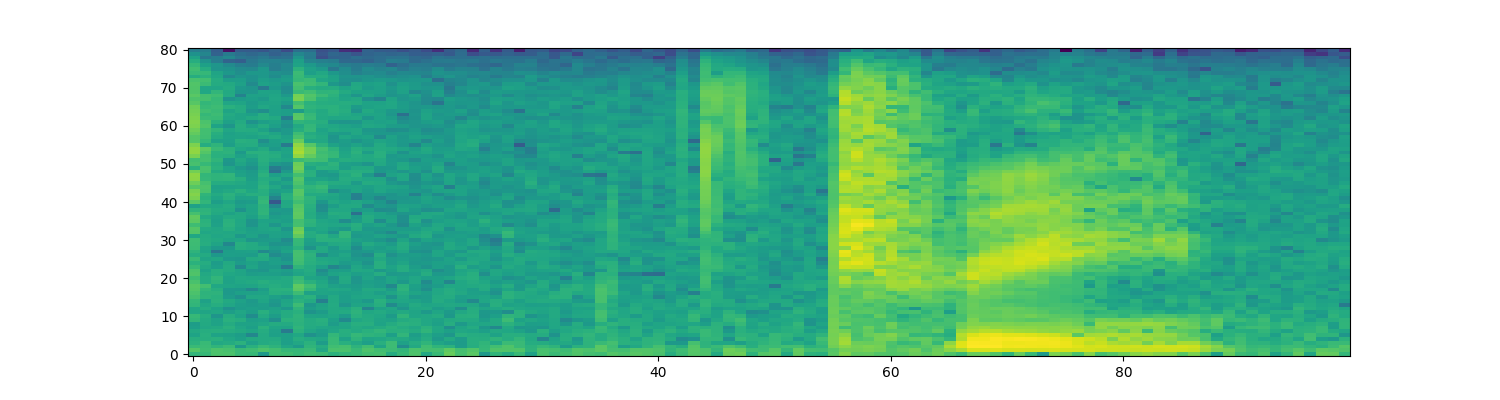
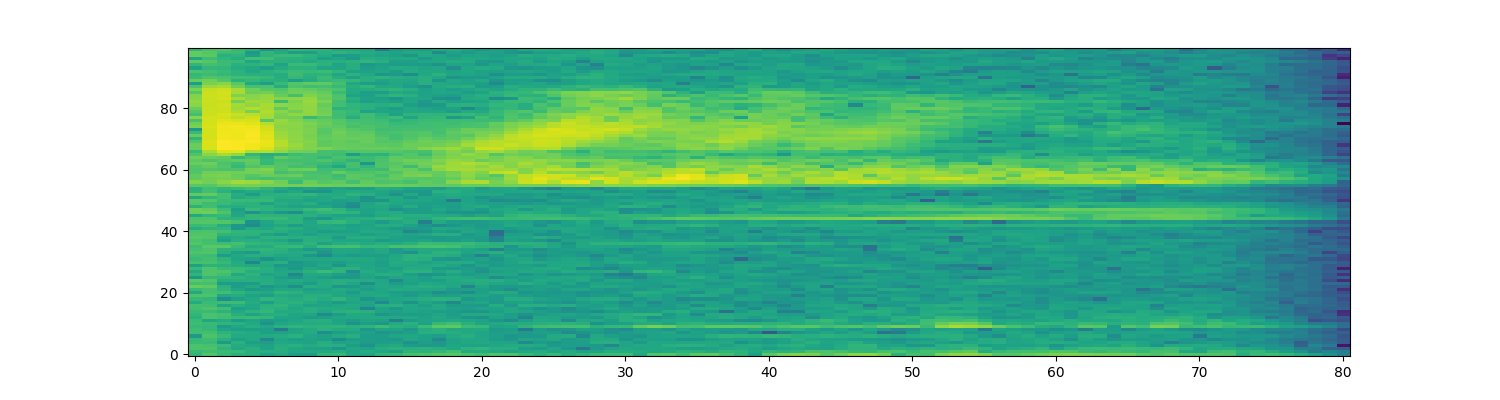
20190917

diff --git a/TensorFlow-Speech-Recognition-Challenge/main.py b/TensorFlow-Speech-Recognition-Challenge/main.py
@@ -11,6 +11,9 @@ from scipy import signal # audio processing
 from scipy.io import wavfile # reading the wavfile
 from matplotlib import pyplot as plt
 
+from keras.models import Sequential
+from keras.layers import LSTM, Dense, Dropout
+
 
 
 #PATH = '../input/train/audio/'
@@ -27,8 +30,8 @@ def load_files(path):
     print(train_labels)
     train_labels.remove('_background_noise_')
     
-    labels_to_keep = ['yes', 'no', 'up', 'down', 'left', 'right', 'on', 'off', 'stop', 'go', '_background_noise_']
-
+#    labels_to_keep = ['yes', 'no', 'up', 'down', 'left', 'right', 'on', 'off', 'stop', 'go', '_background_noise_']
+    labels_to_keep = ['zero', 'one', 'two', 'three', 'four', 'five', 'six', 'seven', 'eight', 'nine', '_background_noise_']
     train_file_labels = dict()
     for label in train_labels:
         files = os.listdir(PATH + '/' + label)
@@ -79,6 +82,7 @@ files = glob(PATH + '_bac*/*.wav')#バックグラウンドノイズを取得
 print(files)
 #
 ## silence background samples
+#バックグラウンドノイズには1秒につき16000点ある→1秒毎に取り出す→all_silに格納
 all_sil = []
 for s in files:
     sr, audio = wavfile.read(s)
@@ -93,14 +97,27 @@ for s in files:
         all_sil.append(sample_)
 #plt.plot(sample)
 #print(all_sil)
+#plt.plot(all_sil)
 #plt.savefig("foo.png")
 print(len(all_sil))
 print(all_sil[0].shape)
-sil_data =  np.zeros((392, 16000, ))
-for i,d in enumerate(all_sil):
-    sil_data[i] = d
-print(sil_data.shape)
-#
+print(np.array(all_sil).shape)
+
+
+
+#リストをnumpyとしてsil_dataに格納
+#やり方1
+#sil_data =  np.zeros((len(all_sil), 16000, ))
+#for i,d in enumerate(all_sil):
+#    sil_data[i] = d
+#やり方2
+sil_data=np.array(all_sil,dtype = 'float').reshape(len(all_sil), 16000, )
+#print(np.array(all_sil,dtype = 'float').reshape(len(all_sil), 16000, ))
+print(sil_data)
+
+
+
+
 ## Writing functions to extract the data, script from kdnuggets:
 ## www.kdnuggets.com/2016/09/urban-sound-classification-neural-networks-tensorflow.html
 def extract_feature(path):
@@ -132,12 +149,13 @@ def parse_audio_files(files, word2id, unk = False):
     return np.array(features), one_hot
 
 
-files = train.loc[train['label'] != 'unknown']['file'].values
+files = train.loc[train['label'] != 'unknown']['file'].values #filesにunknown以外格納（つまり0から9の数字）
 print(len(files))
 print(files[:10])
 #
 # playing around with the data for now
-
+#================================================================================
+#試しに3の数字でやってみる。
 #train_audio_path = '../input/train/audio/'
 train_audio_path = PATH
 filename = '/tree/24ed94ab_nohash_0.wav' # --> 'Yes'
@@ -145,33 +163,40 @@ sample_rate, audio = wavfile.read(str(train_audio_path) + filename)
 plt.figure(figsize = (15, 4))
 print(sample_rate)
 plt.plot(audio)
-plt.savefig("foo.png")
+plt.savefig("foo3.png")
 #ipd.Audio(audio, rate=sample_rate)
-
-
 # goto: https://medium.com/@ageitgey/machine-learning-is-fun-part-6-how-to-do-speech-recognition-with-deep-learning-28293c162f7a
 # We convert it into chunks of 20ms each i.e. units of 320
 audio_chunks = []
-n_chunks = int(audio.shape[0]/320)
-print(n_chunks)
+n_chunks = int(audio.shape[0]/320)#320でひとかたまり(16000/320=50)
+print(n_chunks)#50
 for i in range(n_chunks):
     chunk = audio[i*320: (i+1)*320]
     audio_chunks.append(chunk)
-audio_chunk = np.array(audio_chunks)
+audio_chunk = np.array(audio_chunks).reshape(-1,320)
+print(audio_chunk.shape)
+print(audio_chunk)
+#================================================================================
+
 
 # we now convert it to spertogram
+#http://aidiary.hatenablog.com/entry/20120211/1328964624
 # goto: https://www.kaggle.com/davids1992/data-visualization-and-investigation
 def log_specgram(audio, sample_rate, window_size=10,
                  step_size=10, eps=1e-10):
     nperseg = int(round(window_size * sample_rate / 1e3))
     noverlap = int(round(step_size * sample_rate / 1e3))
-    _, _, spec = signal.spectrogram(audio,
+    a, b, spec = signal.spectrogram(audio,
                                     fs=sample_rate,
                                     window='hann',
                                     nperseg=nperseg,
                                     noverlap=noverlap,
                                     detrend=False)
-    return np.log(spec.T.astype(np.float32) + eps)
+    #spectrogramの返り値は(時間,分解次元)
+#    print(a)
+#    print(b)
+#(batch_size, timesteps, input_dim)
+    return np.log(spec.astype(np.float32) + eps)
 
 
 spectrogram = log_specgram(audio, sample_rate, 10, 0)
@@ -206,6 +231,7 @@ for i in range(len(files)):
 #    path = '../input/train/audio/' + str(folders[i]) + '/' + str(files[i])
     path =  str(files[i])
     paths.append(path)
+
 def audio_to_data(path):
     # we take a single path and convert it into data
     sample_rate, audio = wavfile.read(path)
@@ -213,11 +239,11 @@ def audio_to_data(path):
     return spectrogram.T
 
 def paths_to_data(paths,labels):
-    data = np.zeros(shape = (len(paths), 81, 100))
+    data = np.zeros(shape = (len(paths), 100, 81))
     indexes = []
     for i in tqdm(range(len(paths))):
         audio = audio_to_data(paths[i])
-        if audio.shape != (81,100):
+        if audio.shape != (100,81):
             indexes.append(i)
         else:
             data[i] = audio
@@ -226,24 +252,23 @@ def paths_to_data(paths,labels):
     return data[:len(data)-len(indexes)], final_labels, indexes
 d,l,indexes = paths_to_data(paths,one_hot_l)
 #
-#labels = np.zeros(shape = [d.shape[0], len(l[0])])
-#for i,array in enumerate(l):
-#    for j, element in enumerate(array):
-#        labels[i][j] = element
-#print(labels.shape)
-#print(d[0].shape)
-#print(labels[0].shape)
-#
-#
-#from keras.models import Sequential
-#from keras.layers import LSTM, Dense, Dropout
-#
-#model = Sequential()
-#model.add(LSTM(256, input_shape = (81, 100)))
-## model.add(Dense(1028))
-#model.add(Dropout(0.2))
-#model.add(Dense(128))
-#model.add(Dropout(0.2))
-#model.add(Dense(12, activation = 'softmax'))
-#model.compile(optimizer = 'Adam', loss = 'mean_squared_error', metrics = ['accuracy'])
-#model.summary()
+labels = np.zeros(shape = [d.shape[0], len(l[0])])
+for i,array in enumerate(l):
+    for j, element in enumerate(array):
+        labels[i][j] = element
+print(labels.shape)
+print(d[0].shape)
+print(d.shape)
+print(labels[0].shape)
+
+
+model = Sequential()
+model.add(LSTM(256, input_shape = (100, 81)))
+# model.add(Dense(1028))
+model.add(Dropout(0.2))
+model.add(Dense(128))
+model.add(Dropout(0.2))
+model.add(Dense(12, activation = 'softmax'))
+model.compile(optimizer = 'Adam', loss = 'mean_squared_error', metrics = ['accuracy'])
+model.summary()
+model.fit(d, labels, batch_size = 1024, epochs = 10)
